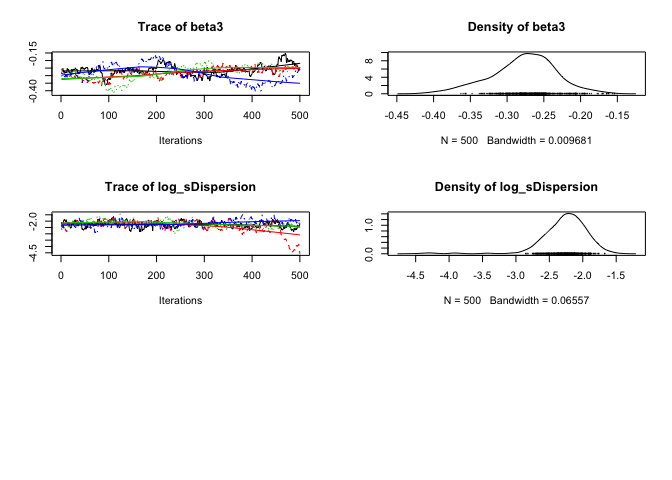
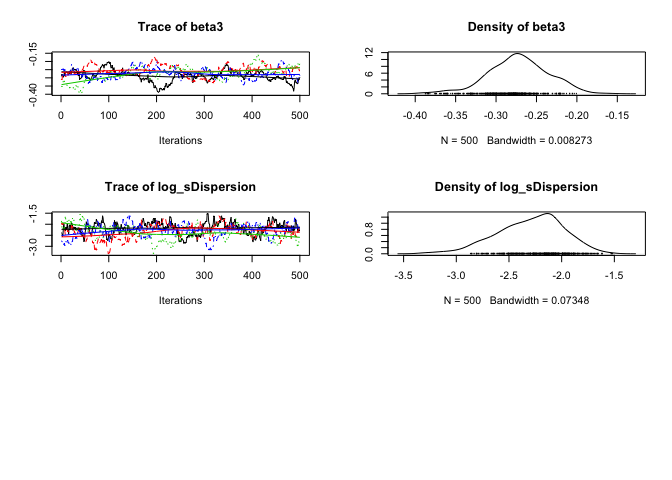
demonstration

diff --git a/README.md b/README.md
@@ -52,7 +52,7 @@ for (i in 1:length(Pairs)) {
 
 model <- model(template, scale = "Year", new_expr = new_expr, monitor = "^(a|b|l)")
 
-analysis <- analyse(model, data = data)# %>% reanalyse()
+analysis <- analyse(model, data = data) %>% reanalyse()
 
 plot(analysis)
 ```
@@ -65,16 +65,16 @@ glance(analysis)
 #> # A tibble: 1 × 6
 #>       n     k logLik    IC minutes converged
 #>   <int> <int>  <dbl> <dbl>   <int>     <lgl>
-#> 1    40     5     NA    NA       0     FALSE
+#> 1    40     5     NA    NA       0      TRUE
 tidy(analysis)
 #> # A tibble: 5 × 5
-#>              term   estimate  std.error   statistic p.value
-#> *           <chr>      <dbl>      <dbl>       <dbl>   <dbl>
-#> 1           alpha  4.2186642 0.04054657 104.0033374  0.0005
-#> 2           beta1  1.1980643 0.08629097  13.9767913  0.0005
-#> 3           beta2  0.0166283 0.03242638   0.5561502  0.5640
-#> 4           beta3 -0.2745776 0.04443925  -6.2583909  0.0005
-#> 5 log_sDispersion -2.2321705 0.36204892  -6.2634847  0.0005
+#>              term    estimate  std.error  statistic p.value
+#> *           <chr>       <dbl>      <dbl>      <dbl>   <dbl>
+#> 1           alpha  4.21692422 0.03810367 110.653814  0.0005
+#> 2           beta1  1.18963236 0.07367380  16.152516  0.0005
+#> 3           beta2  0.01918109 0.02968810   0.694137  0.5160
+#> 4           beta3 -0.27225452 0.03744825  -7.267770  0.0005
+#> 5 log_sDispersion -2.26572399 0.31702219  -7.252330  0.0005
 
 year <- predict(analysis, new_data = new_data(data, "Year"))
 
